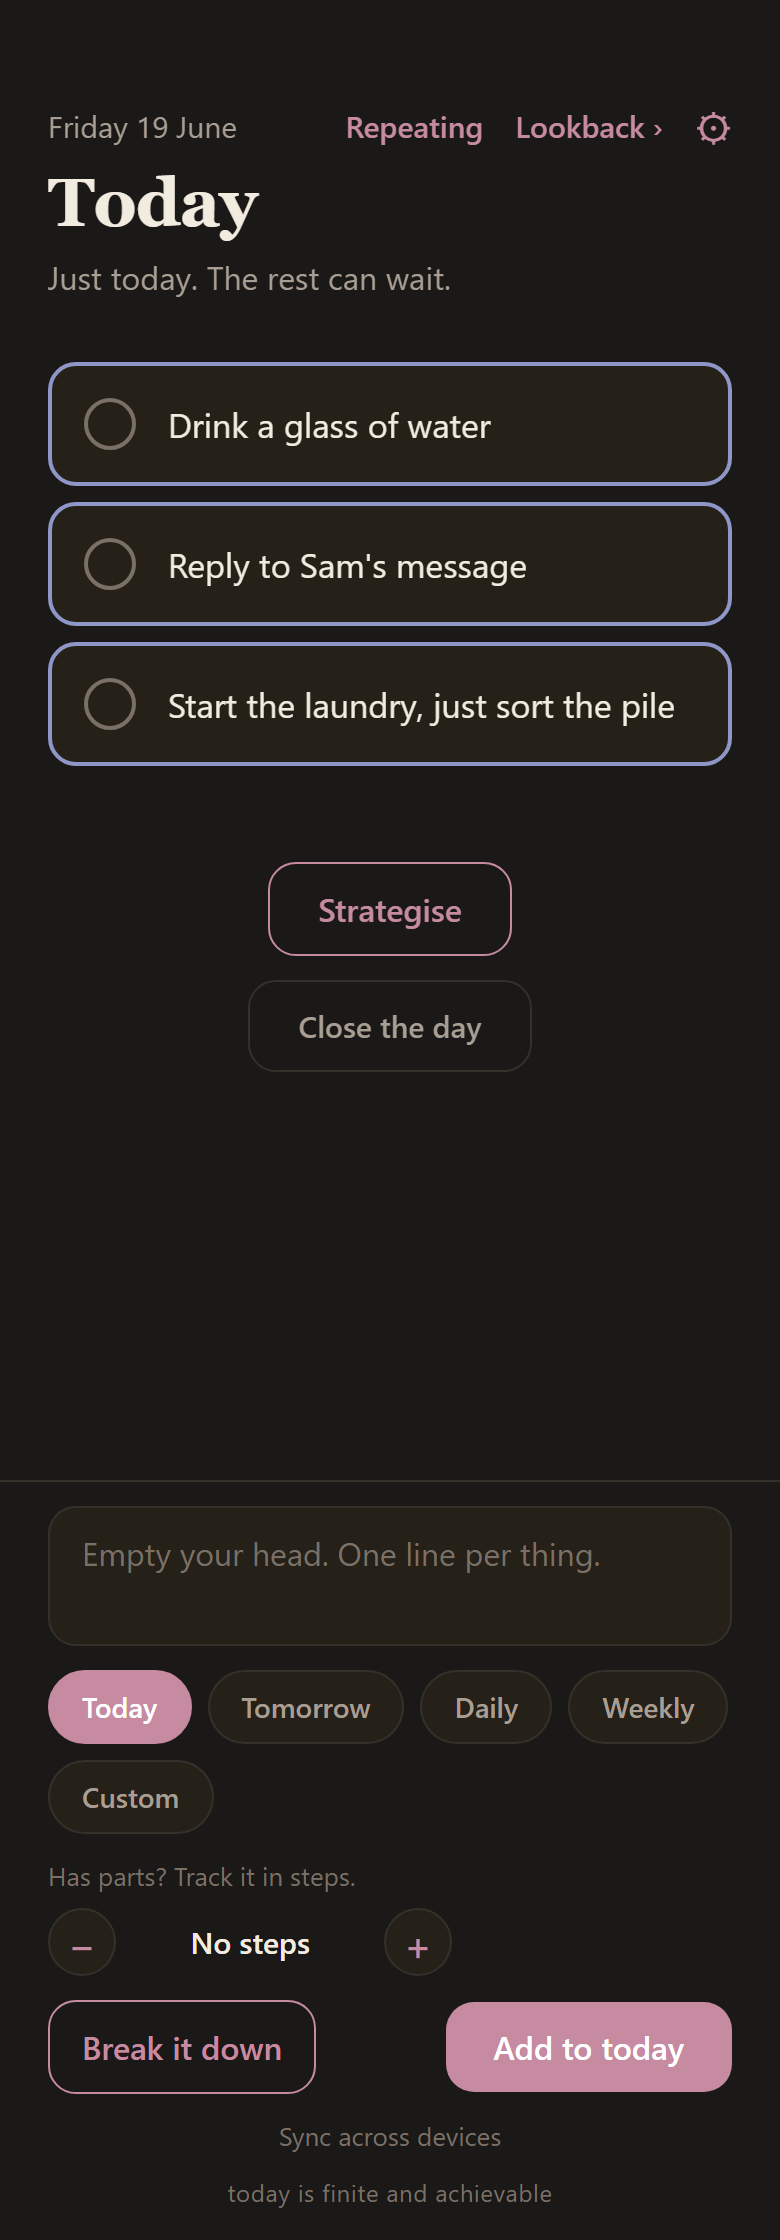
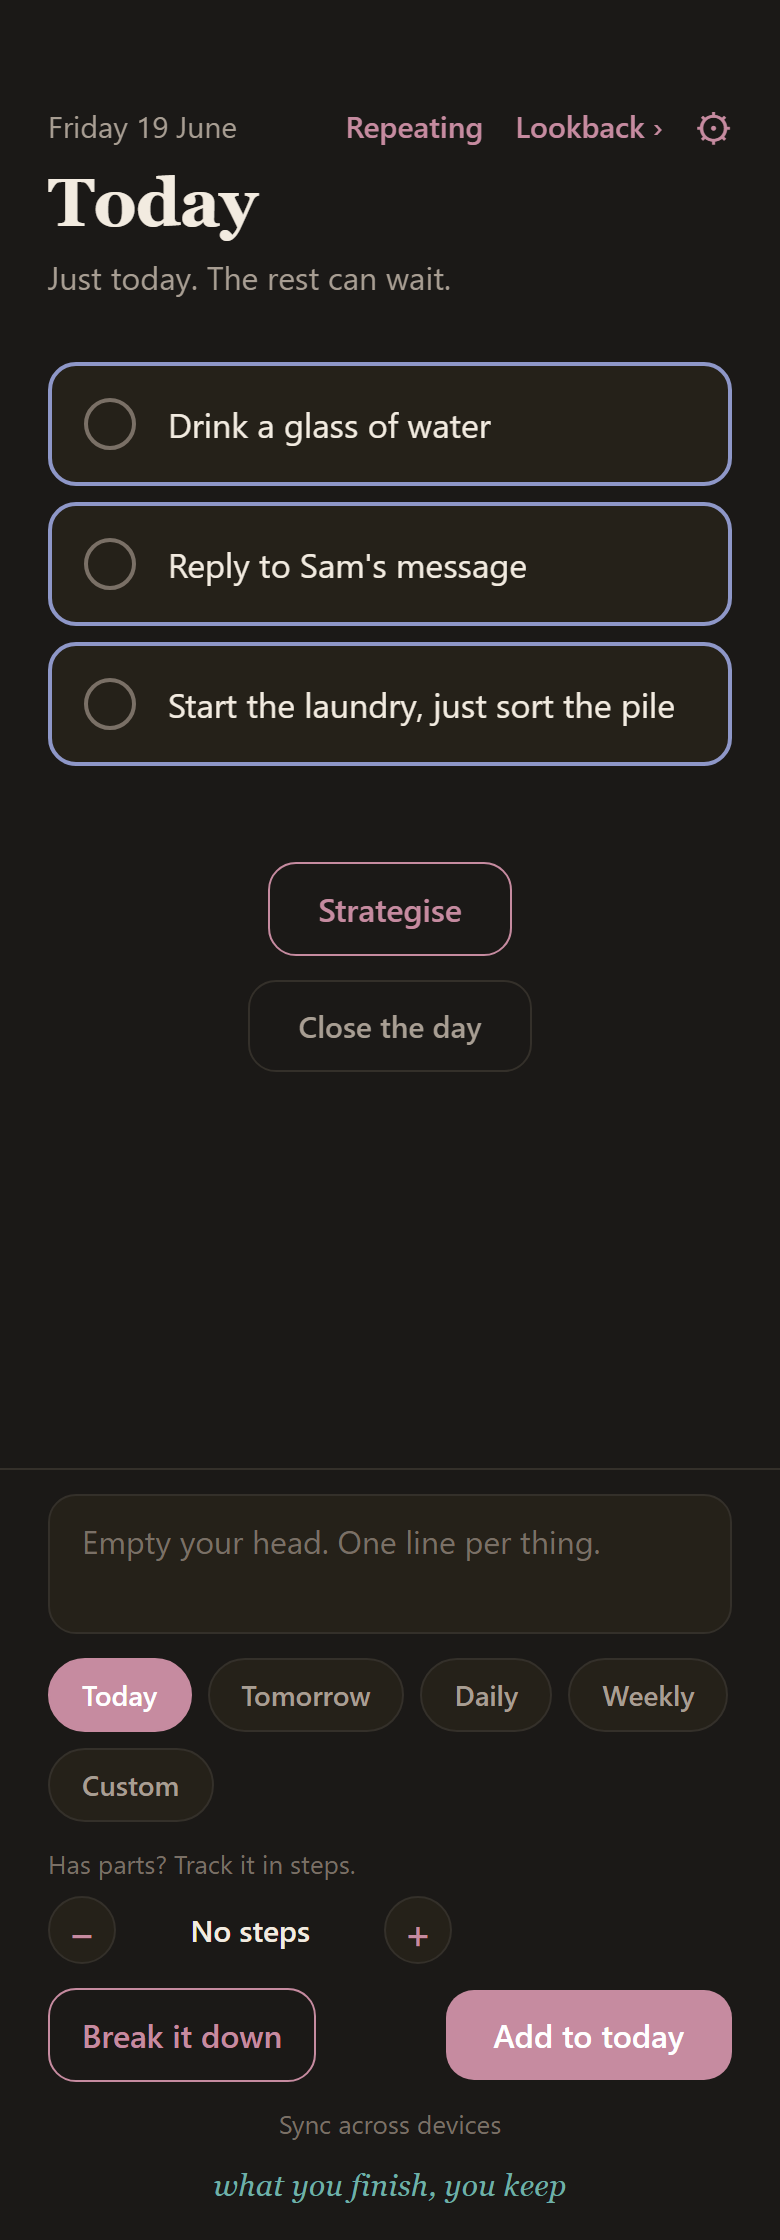
docs: refresh Today screenshots to the rotating-phrase footer
The Today screenshots predated the rotating-phrase feature, so they still
showed the old fixed "today is finite and achievable" footer in plain style.
Recaptured both (light + dark) at a true 390px viewport; the footer now reads
as the serif-italic, accent-coloured rotating phrase. Settings shots were
already current. Mark the screenshot work done in BUILD-PLAN.

diff --git a/BUILD-PLAN.md b/BUILD-PLAN.md
@@ -135,11 +135,11 @@ The single home for everything we have consciously parked. Nothing here is dropp
 - Investigate the expo-router "multiple renderers" dev warning. Trigger: before launch, or if it ever surfaces in production.
 - Tier-1 CI hardening: a coverage floor and a build job (PLAYBOOK). Trigger: real users, when silent regressions start costing people.
 - ✅ **Lock down the AI endpoints** (shipped + live 2026-06-19). The five AI routes have a **CORS allowlist** (app origins only), an **Origin gate** (a disallowed browser origin → 403 before any Claude call), and a **per-IP Cloudflare rate limit** (`AI_LIMITER`, 30 req/60s). Deployed (version `3f6e03c8`) and live-verified with zero AI spend; server-only, nothing changed for existing web/native users. Contract-tested (9 cases). See decision-log 2026-06-19.
-- ◑ **Design overhaul, the "Dusk" system** (Melroy, 2026-06-18; in progress 2026-06-19). Melroy's design tooling produced the Dusk system (mockups in `docs/design/`). ✅ **Palette + system-following dark shipped.** ✅ **Serif headings** (Newsreader) wired. ✅ **Illustration suite wired** (2026-06-19): app icon / splash / favicon, the empty-Today and close-the-day "moment" banners (the close card with a reduced-motion-safe fade-and-rise), and the README hero. ✅ **Native dark-mode enabled** (`userInterfaceStyle: automatic`, needs on-device verification). ✅ **Settings page** (theme / text size / motion, live across the app). ✅ **Atkinson Hyperlegible body font** swept onto every component, so body text now renders the Braille Institute legibility face on web while headings stay Newsreader (RN-web gives every Text its own default font, so it had to be applied per style; decision-log 2026-06-19). **The Dusk design pass is essentially complete.** ✅ **Native fonts shipped 2026-06-19** (`expo-google-fonts` + `useFonts`: Newsreader / Atkinson now load on Android, web unchanged; one weight per face for v1, see below). Remaining and smaller: optional component polish (capture send button, per-task accent dots), and the README screenshot refresh.
+- ◑ **Design overhaul, the "Dusk" system** (Melroy, 2026-06-18; in progress 2026-06-19). Melroy's design tooling produced the Dusk system (mockups in `docs/design/`). ✅ **Palette + system-following dark shipped.** ✅ **Serif headings** (Newsreader) wired. ✅ **Illustration suite wired** (2026-06-19): app icon / splash / favicon, the empty-Today and close-the-day "moment" banners (the close card with a reduced-motion-safe fade-and-rise), and the README hero. ✅ **Native dark-mode enabled** (`userInterfaceStyle: automatic`, needs on-device verification). ✅ **Settings page** (theme / text size / motion, live across the app). ✅ **Atkinson Hyperlegible body font** swept onto every component, so body text now renders the Braille Institute legibility face on web while headings stay Newsreader (RN-web gives every Text its own default font, so it had to be applied per style; decision-log 2026-06-19). **The Dusk design pass is essentially complete.** ✅ **Native fonts shipped 2026-06-19** (`expo-google-fonts` + `useFonts`: Newsreader / Atkinson now load on Android, web unchanged; one weight per face for v1, see below). Remaining and smaller: optional component polish (capture send button, per-task accent dots). ✅ **README screenshots refreshed 2026-06-19** to the Dusk look, incl. the new rotating-phrase footer.
   - **Full native font weights / italics** (follow-on to the v1 native-font load, 2026-06-19). v1 loads one weight per face, so Android synthesises bold / italic. Load the explicit Newsreader + Atkinson bold and italic variants and add `sansBold` / `bodyBold` / italic tokens (same CSS var on web, real variant on native), with a small per-style sweep. Trigger: the synthetic weights read poorly on a real device, or the design polish pass.
 
 **Portfolio and public documentation**
-- ◑ **Portfolio-grade GitHub, modelled on ParkProof** (Melroy, 2026-06-18). *README rewritten to ParkProof's shape (hero, what-it-does, architecture diagram, stack table, notable decisions, what's-not-built-with-triggers, files tree, further reading) and `docs/case-study.md` written (the PM narrative: pivot, spine, moat, never-shame, discipline of stopping) — 2026-06-19.* **Remaining:** auto-generated screenshots (deliberately deferred until after the design overhaul, since the UI is about to change), and optionally a build-journal / how-it-was-built doc like ParkProof's. Trigger for screenshots: design overhaul lands.
+- ◑ **Portfolio-grade GitHub, modelled on ParkProof** (Melroy, 2026-06-18). *README rewritten to ParkProof's shape (hero, what-it-does, architecture diagram, stack table, notable decisions, what's-not-built-with-triggers, files tree, further reading) and `docs/case-study.md` written (the PM narrative: pivot, spine, moat, never-shame, discipline of stopping) — 2026-06-19.* ✅ **Screenshots done 2026-06-19:** Today + Settings, light + dark, captured at a true 390px viewport and current to the Dusk look (incl. the rotating-phrase footer). **Remaining (optional):** a build-journal / how-it-was-built doc like ParkProof's.
 
 ---
 